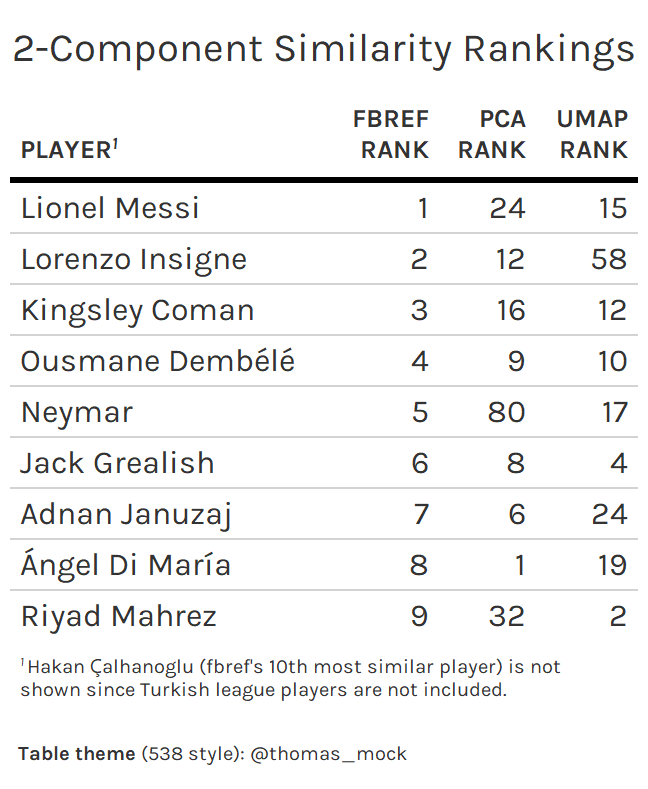
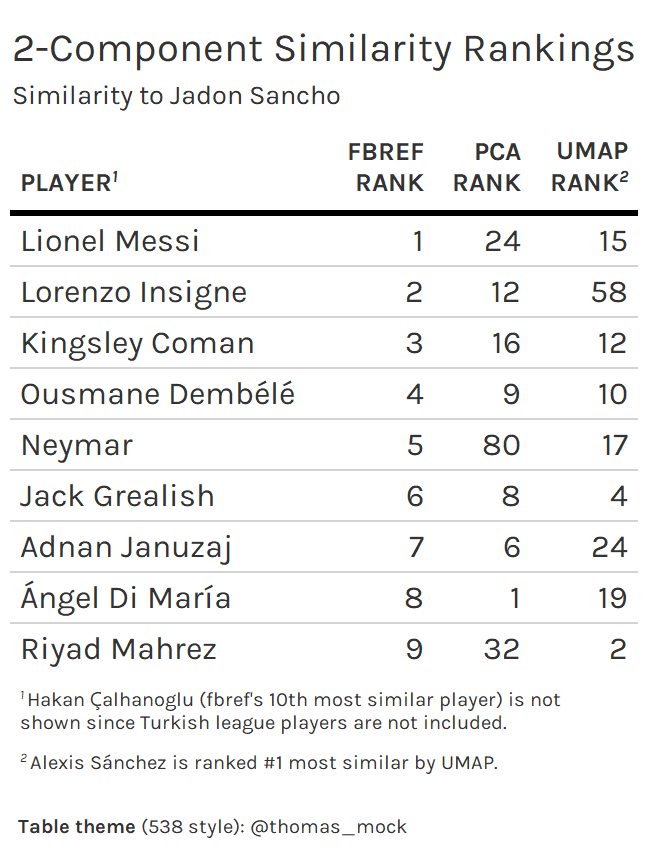
update sancho table

Changed region(s): [[0.0, 0.1217, 0.9877, 0.9125], [0.0, 0.0304, 0.9877, 0.1217], [0.0309, 0.943, 0.6481, 0.9734]]

diff --git a/content/post/dimensionality-reduction-and-clustering/index.html b/content/post/dimensionality-reduction-and-clustering/index.html
@@ -274,9 +274,11 @@ sims</code></pre>
 <p>Finally, let’s bring clustering back into the conversation. We’re going to focus on how the heralded UMAP + GMM combo can be visualized to provide insight that supports (or debunks) our prior understanding.</p>
 <p>With a 2-component UMAP + 6-cluster GMM, we can see how the 6 position groups can be identified in a 2-D space.</p>
 <p><img src="viz_uncertainty_umap_full.png" /></p>
-<p>If we exclude keepers (G) and defenders (D) to focus on the other 4 positions, we can better see how some individual points —at the edges or outside of covariance ellipsoids—are classified with a higher degree of uncertainty.<a href="#fn8" class="footnote-ref" id="fnref8"><sup>8</sup></a></p>
+<p>For those curious, using PCA instead of UMAP also leads to an identifiable set of clusters. However, uncertainties are generally higher across the board (larger point sizes, more overlap between covariance ellipsoids).</p>
+<p><img src="viz_uncertainty_pca_full.png" /></p>
+<p>If we exclude keepers (G) and defenders (D) to focus on the other 4 positions with our UMAP + GMM approach, we can better see how some individual points —at the edges or outside of covariance ellipsoids—are classified with a higher degree of uncertainty.<a href="#fn8" class="footnote-ref" id="fnref8"><sup>8</sup></a></p>
 <p><img src="viz_uncertainty_umap_filt.png" /></p>
-<p>Now highlighting incorrect classifications, we can see how the defensive midfielder (DM) position group (upper left) seems to be a blind spot in our approach.</p>
+<p>Now, highlighting incorrect classifications, we can see how the defensive midfielder (DM) position group (upper left) seems to be a blind spot in our approach.</p>
 <p><img src="viz_misclassified_umap.png" /></p>
 <p>A more traditional confusion matrix<a href="#fn9" class="footnote-ref" id="fnref9"><sup>9</sup></a> also illustrates the inaccuracy with classifying DMs. (Note the lack of dark grey fill in the DM column.)</p>
 <p><img src="viz_cm_umap.png" /></p>

diff --git a/content/post/dimensionality-reduction-and-clustering/index.md b/content/post/dimensionality-reduction-and-clustering/index.md
@@ -389,13 +389,17 @@ With a 2-component UMAP + 6-cluster GMM, we can see how the 6 position groups ca
 
 ![](viz_uncertainty_umap_full.png)
 
-If we exclude keepers (G) and defenders (D) to focus on the other 4 positions, we can better see how some individual points ---at the edges or outside of covariance ellipsoids---are classified with a higher degree of uncertainty.[^8]
+For those curious, using PCA instead of UMAP also leads to an identifiable set of clusters. However, uncertainties are generally higher across the board (larger point sizes, more overlap between covariance ellipsoids).
+
+![](viz_uncertainty_pca_full.png)
+
+If we exclude keepers (G) and defenders (D) to focus on the other 4 positions with our UMAP + GMM approach, we can better see how some individual points ---at the edges or outside of covariance ellipsoids---are classified with a higher degree of uncertainty.[^8]
 
 [^8]: Sure, one can argue that a player like Diogo Jota should have been classified as an attacking midfielder (AM) to begin with, in which case he might not have been misclassified here.
 
 ![](viz_uncertainty_umap_filt.png)
 
-Now highlighting incorrect classifications, we can see how the defensive midfielder (DM) position group (upper left) seems to be a blind spot in our approach.
+Now, highlighting incorrect classifications, we can see how the defensive midfielder (DM) position group (upper left) seems to be a blind spot in our approach.
 
 ![](viz_misclassified_umap.png)
 
